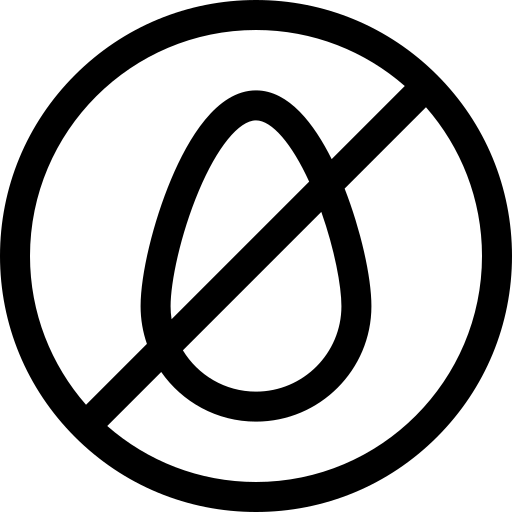
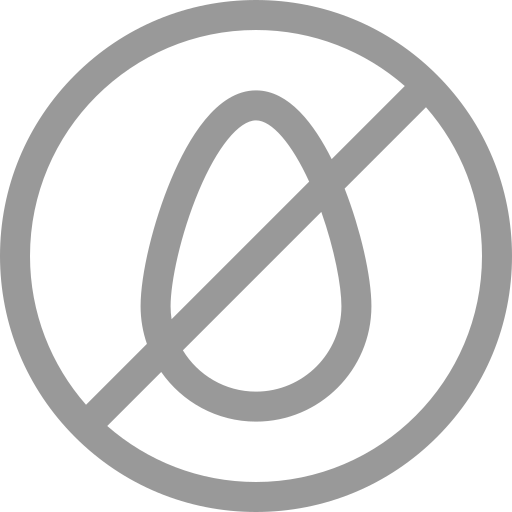
recipe allergének megoldva
ha allergén tartalmaz, az ikonok megfelelően jelennek meg; ikonok kiszürkítve

diff --git a/resources/views/recipe.blade.php b/resources/views/recipe.blade.php
@@ -20,52 +20,52 @@
             <h2 class="align-center" >{{$recipe->megnevezes}}</h2>
             <section id="free-from-div">
                 <figure class="align-center">
-                    <img class="w-20" src="<?php echo in_array('sugar', $allergens)
+                    <img class="w-20" src="<?php echo strpos($allergens, 'sugar')
                     ? '../img/sugar-cube.png'
                     : '../img/sugar-cube-free.png'; ?>" alt="">
-                        <figcaption <?php echo in_array('sugar', $allergens)
+                        <figcaption <?php echo strpos($allergens, 'sugar')
                     ? ''
-                    : 'class="grey"';?> ><?php echo in_array('sugar', $allergens)
+                    : 'class="grey"';?> ><?php echo strpos($allergens, 'sugar')
                     ? 'cukrot tartalmaz'
                     : 'cukormentes'; ?></figcaption>
                 </figure>
                 <figure class="align-center">
-                    <img class="w-20" src="<?php echo in_array('laktose', $allergens)
+                    <img class="w-20" src="<?php echo strpos($allergens, 'laktose')
                     ? '../img/laktose.png'
                     : '../img/laktose-free.png'; ?>" alt="">
-                        <figcaption <?php echo in_array('laktose', $allergens)
+                        <figcaption <?php echo strpos($allergens, 'laktose')
                     ? ''
-                    : 'class="grey"';?>><?php echo in_array('laktose', $allergens)
+                    : 'class="grey"';?>><?php echo strpos($allergens, 'laktose')
                     ? 'laktózt tartalmaz'
                     : 'laktózmentes'; ?></figcaption>
                 </figure>
                 <figure class="align-center">
-                    <img class="w-20" src="<?php echo in_array('gluten', $allergens)
+                    <img class="w-20" src="<?php echo strpos($allergens, 'gluten')
                     ? '../img/gluten.png'
                     : '../img/gluten-free.png'; ?>" alt="">
-                        <figcaption <?php echo in_array('gluten', $allergens)
+                        <figcaption <?php echo strpos($allergens, 'gluten')
                     ? ''
-                    : 'class="grey"';?>><?php echo in_array('gluten', $allergens)
+                    : 'class="grey"';?>><?php echo strpos($allergens, 'gluten')
                     ? 'glutént tartalmaz'
                     : 'gluténmentes'; ?></figcaption>
                 </figure>
                 <figure class="align-center">
-                    <img class="w-20" src="<?php echo in_array('milk', $allergens)
+                    <img class="w-20" src="<?php echo strpos($allergens, 'milk')
                     ? '../img/milk.png'
                     : '../img/milk-free.png'; ?>" alt="">
-                        <figcaption <?php echo in_array('milk', $allergens)
+                        <figcaption <?php echo strpos($allergens, 'milk')
                     ? ''
-                    : 'class="grey"';?>><?php echo in_array('milk', $allergens)
+                    : 'class="grey"';?>><?php echo strpos($allergens, 'milk')
                     ? 'tejet tartalmaz'
                     : 'tejmentes'; ?></figcaption>
                 </figure>
                 <figure class="align-center">
-                <img class="w-20" src="<?php echo in_array('tojas', $allergens)
+                <img class="w-20" src="<?php echo strpos($allergens, 'egg')
                     ? '../img/egg.png'
                     : '../img/egg-free.png'; ?>" alt="">
-                        <figcaption <?php echo in_array('tojas', $allergens)
+                        <figcaption <?php echo strpos($allergens, 'egg')
                     ? ''
-                    : 'class="grey"';?>><?php echo in_array('tojas', $allergens)
+                    : 'class="grey"';?>><?php echo strpos($allergens, 'egg')
                     ? 'tojást tartalmaz'
                     : 'tojásmentes'; ?></figcaption>
                 </figure>

diff --git a/app/Http/Controllers/ReceptController.php b/app/Http/Controllers/ReceptController.php
@@ -162,12 +162,11 @@ class ReceptController extends Controller
                                                     'alapanyag_mertekegysegs.mertekegyseg',
                                                     'alkotjas.mennyiseg')
                                              ->get();
-            $allergens = [];
+            $allergens = '';
             foreach ($alkotjas as $alkotja) {
-                $allergen = DB::table('allergens')->where('alapanyag', '=', $alkotja->alapanyag)
-                                                  ->pluck('allergen');
+                $allergen = Allergen::where('alapanyag', $alkotja->alapanyag)->pluck('allergen');
                 if ($allergen != null) {
-                    array_push($allergens, $allergen);
+                    $allergens = $allergens .  ' ' . (String)$allergen;
                 }
             }
             $steps = Lepes::all()->where('recept', '=', $id);
@@ -175,10 +174,27 @@ class ReceptController extends Controller
         }
     }
 
-    public function seged(Request $request)
+    public function seged($url_slug)
     {
-        
-        return response()->json(['recipes'=> $filtered_recipes]);
+        $recipe = Recept::where('url_slug',$url_slug)->first();
+        $id=$recipe->r_id;
+        $alkotjas = DB::table('alkotjas')->where('recept', '=', $id)
+                                             ->join('alapanyag_mertekegysegs', 
+                                                    'alkotjas.alapanyag_mertekegyseg', 
+                                                    '=', 
+                                                    'alapanyag_mertekegysegs.am_id')
+                                             ->select('alapanyag_mertekegysegs.alapanyag',
+                                                    'alapanyag_mertekegysegs.mertekegyseg',
+                                                    'alkotjas.mennyiseg')
+                                             ->get();
+            $allergens = '';
+            foreach ($alkotjas as $alkotja) {
+                $allergen = Allergen::where('alapanyag', $alkotja->alapanyag)->pluck('allergen');
+                if ($allergen != null) {
+                    $allergens = $allergens .  ' ' . (String)$allergen;
+                }
+            }
+        return response()->json(['allergens' => $allergens]);
     }
 
     public function search(Request $request) 

diff --git a/routes/web.php b/routes/web.php
@@ -31,6 +31,7 @@ Route::get('/login', function () {
 Route::get('/admin/recipe-list', function () {
     return view('admin.recipe-list');
 });
+Route::get('/admin/draft-recipe-list', [ReceptController::class, 'draftList']);
 
 Route::get('/recipe/{url_slug}', [ReceptController::class, 'show']);
 Route::get('/results', [ReceptController::class, 'search']);
@@ -45,8 +46,6 @@ Route::get('/admin/materials', [AlapanyagController::class, 'index']);
 Route::post('/admin/add-materials', [AlapanyagController::class, 'store']);
 Route::post('/admin/add-matunits', [Alapanyag_mertekegysegController::class, 'store']);
 Route::post('/admin/add-allergen', [AllergenController::class, 'store']);
-Route::get('/admin/draft-recipe-list', [ReceptController::class, 'draftList']);
-Route::get('/admin/recipe-list', [ReceptController::class, 'publicList']);
 Route::get('/admin/edit/{id}', [ReceptController::class, 'edit']);
 Route::post('/admin/edit/{id}', [ReceptController::class, 'update']);
 
@@ -57,6 +56,6 @@ Route::delete('/api/draft/{id}', [ReceptController::class, 'draft']);
 Route::delete('/api/edit/{id}', [ReceptController::class, 'destroy']);
 
 //segéd:
-Route::get('/api/seged', [ReceptController::class, 'seged']);
+Route::get('/api/seged/{url_slug}', [ReceptController::class, 'seged']);
 
 require __DIR__.'/auth.php';

diff --git a/database/migrations/2022_02_09_224227_create_alkotjas_table.php b/database/migrations/2022_02_09_224227_create_alkotjas_table.php
@@ -17,7 +17,7 @@ class CreateAlkotjasTable extends Migration
             $table->increments('alk_id',11)->unique();
             $table->unsignedInteger('recept');
             $table->unsignedInteger('alapanyag_mertekegyseg');
-            $table->tinyInteger('mennyiseg')->nullable();
+            $table->float('mennyiseg')->nullable();
             $table->timestamps();
             $table->unique(array('recept', 'alapanyag_mertekegyseg', 'mennyiseg'));
 
